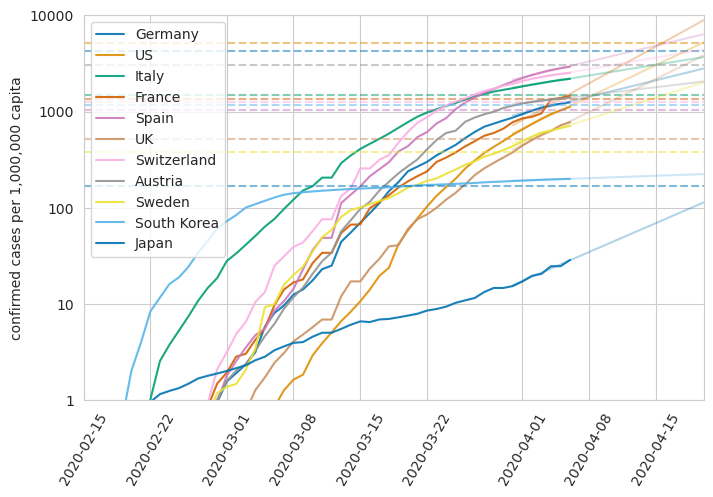
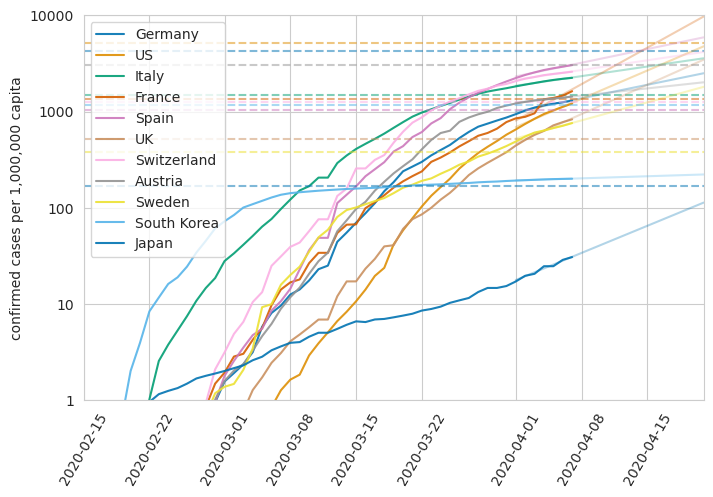
Adjust README.md and update plots

diff --git a/kovid.py b/kovid.py
@@ -769,7 +769,7 @@ if __name__ == "__main__":
             "UK": [66.44e6, 6.6 / 100000],
             "Switzerland": [8.57e6, 11.0 / 100000],
             "Austria": [8.822e6, 21.8 / 100000],
-            # "Sweden": [10.12e6, 5.8/100000],
+            "Sweden": [10.12e6, 5.8/100000],
             # "Denmark": [5.603e6, 6.7/100000],
             # "Norway": [5.368e6, 8.0/100000],
             "South Korea": [51.47e6, 10.6 / 100000],

diff --git a/README.md b/README.md
@@ -58,6 +58,6 @@ This is the number of newly registered infections divided by the number of confi
 
 This is the number of daily registered new infections divided by the population size. The dashed lines here indicate a health system capacity estimate based on
 - 6% ICU treatment rate for confirmed COVID-19 patients
-- 1 week ICU care for each of these patients
+- 18 days ICU care for each of these patients
 - absolute minimum ICU capacity for non-COVID-19 patients of 3.5 ICUs/100,000 (see above)
 This plot is inspired by [this video by Harald Lesch](https://www.youtube.com/watch?v=Fx11Y4xjDwA).
